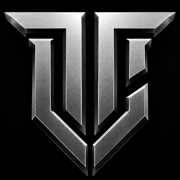
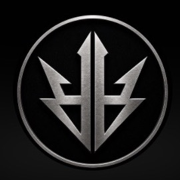
Rebrand undeniable/ to Inevitable HQ
New trident/circle emblem replaces the shield (logo.png, favicons, apple-touch-icon
regenerated from ~/Downloads/inevitable.jpg, cropped to a centered square).
'Undeniable Co' -> 'Inevitable HQ' in titles and branding text across all 4 pages.
'Welcome / SexyBeast69' kept as-is. URL path (/undeniable/) left unchanged so
existing bookmarks/links keep working.

diff --git a/undeniable/carriers.html b/undeniable/carriers.html
@@ -3,7 +3,7 @@
 <head>
 <meta charset="UTF-8">
 <meta name="viewport" content="width=device-width, initial-scale=1.0">
-<title>Undeniable Co &mdash; Carrier links</title>
+<title>Inevitable HQ &mdash; Carrier links</title>
 <link rel="icon" href="favicon.ico" sizes="32x32">
 <link rel="icon" type="image/png" sizes="64x64" href="favicon.png">
 <link rel="apple-touch-icon" href="apple-touch-icon.png">
@@ -131,7 +131,7 @@
   .pw-wrap { display: flex; gap: 6px; }
   .security-note { font-size: 12px; color: var(--text-muted); margin-top: 12px; padding-top: 12px; border-top: 1px solid var(--grid); }
 
-  /* ---------- Undeniable Co branding ---------- */
+  /* ---------- Inevitable HQ branding ---------- */
   .brandbar { display: flex; align-items: center; gap: 18px; background: #000; border: 1px solid #2a2a2a; border-radius: 12px; padding: 14px 20px; }
   .brand-logo { height: 84px; width: auto; flex: none; display: block; }
   .brand-copy { min-width: 0; }
@@ -165,7 +165,7 @@
 
 <div class="wrap">
   <div class="brandbar">
-    <img class="brand-logo" src="logo.png" alt="Undeniable Co">
+    <img class="brand-logo" src="logo.png" alt="Inevitable HQ">
     <div class="brand-copy">
       <div class="brand-hi">Welcome</div>
       <div class="brand-user">SexyBeast69</div>

diff --git a/undeniable/pnl.html b/undeniable/pnl.html
@@ -3,7 +3,7 @@
 <head>
 <meta charset="UTF-8">
 <meta name="viewport" content="width=device-width, initial-scale=1.0">
-<title>Undeniable Co &mdash; Deals &amp; PNL</title>
+<title>Inevitable HQ &mdash; Deals &amp; PNL</title>
 <link rel="icon" href="favicon.ico" sizes="32x32">
 <link rel="icon" type="image/png" sizes="64x64" href="favicon.png">
 <link rel="apple-touch-icon" href="apple-touch-icon.png">
@@ -319,7 +319,7 @@
   .hub-tab.is-active { background: var(--series-1); color: #fff; }
   .hub-tab:not(.is-active):hover { color: var(--text-primary); }
 
-  /* ---------- Undeniable Co branding ---------- */
+  /* ---------- Inevitable HQ branding ---------- */
   .brandbar { display: flex; align-items: center; gap: 18px; background: #000; border: 1px solid #2a2a2a; border-radius: 12px; padding: 14px 20px; }
   .brand-logo { height: 84px; width: auto; flex: none; display: block; }
   .brand-copy { min-width: 0; }
@@ -358,7 +358,7 @@
 
 <div class="wrap">
   <div class="brandbar">
-    <img class="brand-logo" src="logo.png" alt="Undeniable Co">
+    <img class="brand-logo" src="logo.png" alt="Inevitable HQ">
     <div class="brand-copy">
       <div class="brand-hi">Welcome</div>
       <div class="brand-user">SexyBeast69</div>

diff --git a/undeniable/index.html b/undeniable/index.html
@@ -3,7 +3,7 @@
 <head>
 <meta charset="UTF-8">
 <meta name="viewport" content="width=device-width, initial-scale=1.0">
-<title>Undeniable Co &mdash; Activity</title>
+<title>Inevitable HQ &mdash; Activity</title>
 <link rel="icon" href="favicon.ico" sizes="32x32">
 <link rel="icon" type="image/png" sizes="64x64" href="favicon.png">
 <link rel="apple-touch-icon" href="apple-touch-icon.png">
@@ -268,7 +268,7 @@
   .sync-pill.saved { color: var(--good); border-color: var(--good); }
   .sync-pill.err { color: var(--danger); border-color: var(--danger); }
 
-  /* ---------- Undeniable Co branding ---------- */
+  /* ---------- Inevitable HQ branding ---------- */
   .brandbar { display: flex; align-items: center; gap: 18px; background: #000; border: 1px solid #2a2a2a; border-radius: 12px; padding: 14px 20px; }
   .brand-logo { height: 84px; width: auto; flex: none; display: block; }
   .brand-copy { min-width: 0; }
@@ -323,7 +323,7 @@
 
 <div class="wrap">
   <div class="brandbar">
-    <img class="brand-logo" src="logo.png" alt="Undeniable Co">
+    <img class="brand-logo" src="logo.png" alt="Inevitable HQ">
     <div class="brand-copy">
       <div class="brand-hi">Welcome</div>
       <div class="brand-user">SexyBeast69</div>

diff --git a/undeniable/leaderboard.html b/undeniable/leaderboard.html
@@ -3,7 +3,7 @@
 <head>
 <meta charset="UTF-8">
 <meta name="viewport" content="width=device-width, initial-scale=1.0">
-<title>Undeniable Co &mdash; Leaderboard</title>
+<title>Inevitable HQ &mdash; Leaderboard</title>
 <link rel="icon" href="favicon.ico" sizes="32x32">
 <link rel="icon" type="image/png" sizes="64x64" href="favicon.png">
 <link rel="apple-touch-icon" href="apple-touch-icon.png">
@@ -120,7 +120,7 @@
   .empty { color: var(--text-muted); font-size: 13.5px; padding: 10px 0; }
   .note { font-size: 12.5px; color: var(--text-muted); }
 
-  /* ---------- Undeniable Co branding ---------- */
+  /* ---------- Inevitable HQ branding ---------- */
   .brandbar { display: flex; align-items: center; gap: 18px; background: #000; border: 1px solid #2a2a2a; border-radius: 12px; padding: 14px 20px; }
   .brand-logo { height: 84px; width: auto; flex: none; display: block; }
   .brand-copy { min-width: 0; }
@@ -154,7 +154,7 @@
 
 <div class="wrap">
   <div class="brandbar">
-    <img class="brand-logo" src="logo.png" alt="Undeniable Co">
+    <img class="brand-logo" src="logo.png" alt="Inevitable HQ">
     <div class="brand-copy">
       <div class="brand-hi">Welcome</div>
       <div class="brand-user">SexyBeast69</div>
